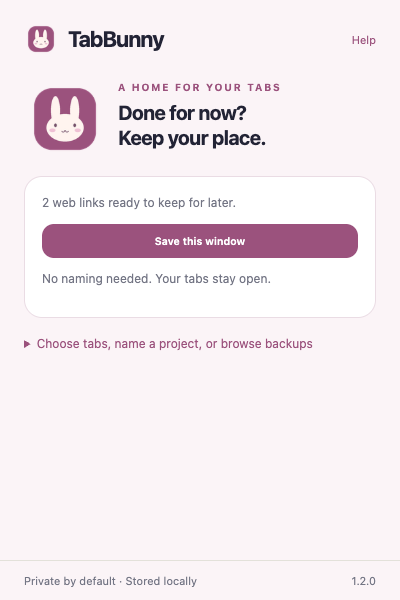
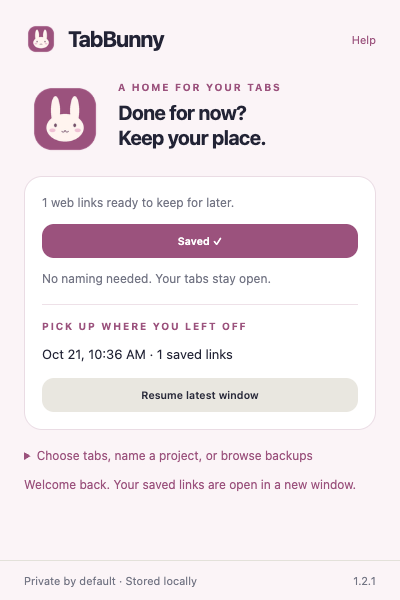
Improve store discovery and add optional honest feedback

diff --git a/extension/popup.js b/extension/popup.js
@@ -1,3 +1,5 @@
+import {initReview} from './review.js';
+const recordReviewUse=initReview('https://chromewebstore.google.com/detail/gmggibbkhagclmcdlcgimijalmedhmhj/reviews');
 import {$,status,node,download,formatDate,confirmDelete} from './shared.js';
 import {uniqueTabs,parseBackup,safeWebUrl,addSnapshot} from './model.js';
 let collections=[],live=[],selected=new Set();
@@ -6,7 +8,7 @@ async function loadLive(){live=(await chrome.tabs.query({currentWindow:true})).f
 function mode(saved){$('#live-view').hidden=saved;$('#saved-view').hidden=!saved;$('#view-live').classList.toggle('selected',!saved);$('#view-saved').classList.toggle('selected',saved);status('');}
 function renderLive(){const q=$('#live-search').value.toLowerCase();const list=live.filter(t=>(t.title+' '+t.url).toLowerCase().includes(q));const box=$('#live-tabs');box.replaceChildren();if(!list.length)box.append(node('div',live.length?'No matching tabs.':'Open a web page to start your first burrow.','empty'));for(const tab of list){const row=node('div',undefined,'tab-row');const check=node('input');check.type='checkbox';check.checked=selected.has(tab.id);check.setAttribute('aria-label','Select '+tab.title);check.onchange=()=>{check.checked?selected.add(tab.id):selected.delete(tab.id);updateCount();};const info=node('button',undefined,'tab-info');info.append(node('strong',tab.title||tab.url),node('span',new URL(tab.url).hostname,'muted'));info.onclick=async()=>{try{await chrome.tabs.update(tab.id,{active:true});await chrome.windows.update(tab.windowId,{focused:true});}catch{status('This tab has closed. Refresh the popup.');}};row.append(check,info);box.append(row);}updateCount();}
 function updateCount(){$('#selected-count').textContent=`${selected.size} selected`;$('#save').disabled=!selected.size;}
-function renderSaved(){const box=$('#collections');box.replaceChildren();const q=$('#search').value.toLowerCase();const list=collections.filter(c=>[c.name,...c.tabs.map(t=>t.title+' '+t.url)].join(' ').toLowerCase().includes(q));if(!list.length)box.append(node('div',collections.length?'No matching burrows.':'Your bunny is keeping a spot warm. Save some tabs to start a burrow.','empty'));for(const c of list){const card=node('article',undefined,'card');const heading=node('div',undefined,'note-title');heading.append(node('h3',c.name),node('span',`${c.tabs.length} tabs`,'count'));card.append(heading,node('p',`Saved ${formatDate(c.createdAt)}`,'muted'));const details=node('details');details.append(node('summary','See saved links'));for(const tab of c.tabs){const a=node('a',tab.title||tab.url,'saved-link');a.href=tab.url;a.target='_blank';a.rel='noopener noreferrer';details.append(a);}card.append(details);const actions=node('div',undefined,'actions');const restore=node('button','Open burrow','primary small');restore.onclick=async()=>{restore.disabled=true;try{const win=await chrome.windows.create({url:c.tabs.map(t=>t.url),focused:true});const tabs=await chrome.tabs.query({windowId:win.id});for(let i=0;i<c.tabs.length;i++)if(c.tabs[i].pinned&&tabs[i])await chrome.tabs.update(tabs[i].id,{pinned:true});status('Your burrow opened in a new window.');}catch{status('Could not open this burrow. Try again.');}finally{restore.disabled=false;}};const rename=node('button','Rename','quiet small');rename.onclick=async()=>{const name=prompt('Burrow name',c.name)?.trim();if(!name)return;try{const latest=(await chrome.storage.local.get('collections')).collections||[];await chrome.storage.local.set({collections:latest.map(x=>x.id===c.id?{...x,name:name.slice(0,80),quick:false}:x)});await loadSaved();}catch{status('Could not rename.');}};const del=node('button','Delete','quiet small');del.onclick=async()=>{if(!confirmDelete(`Delete "${c.name}"?`))return;try{const latest=(await chrome.storage.local.get('collections')).collections||[];await chrome.storage.local.set({collections:latest.filter(x=>x.id!==c.id)});await loadSaved();status('Burrow deleted.');}catch{status('Could not delete.');}};actions.append(restore,rename,del);card.append(actions);box.append(card);}}
+function renderSaved(){const box=$('#collections');box.replaceChildren();const q=$('#search').value.toLowerCase();const list=collections.filter(c=>[c.name,...c.tabs.map(t=>t.title+' '+t.url)].join(' ').toLowerCase().includes(q));if(!list.length)box.append(node('div',collections.length?'No matching burrows.':'Your bunny is keeping a spot warm. Save some tabs to start a burrow.','empty'));for(const c of list){const card=node('article',undefined,'card');const heading=node('div',undefined,'note-title');heading.append(node('h3',c.name),node('span',`${c.tabs.length} tabs`,'count'));card.append(heading,node('p',`Saved ${formatDate(c.createdAt)}`,'muted'));const details=node('details');details.append(node('summary','See saved links'));for(const tab of c.tabs){const a=node('a',tab.title||tab.url,'saved-link');a.href=tab.url;a.target='_blank';a.rel='noopener noreferrer';details.append(a);}card.append(details);const actions=node('div',undefined,'actions');const restore=node('button','Open burrow','primary small');restore.onclick=async()=>{restore.disabled=true;try{const win=await chrome.windows.create({url:c.tabs.map(t=>t.url),focused:true});const tabs=await chrome.tabs.query({windowId:win.id});for(let i=0;i<c.tabs.length;i++)if(c.tabs[i].pinned&&tabs[i])await chrome.tabs.update(tabs[i].id,{pinned:true});status('Your burrow opened in a new window.');void recordReviewUse();}catch{status('Could not open this burrow. Try again.');}finally{restore.disabled=false;}};const rename=node('button','Rename','quiet small');rename.onclick=async()=>{const name=prompt('Burrow name',c.name)?.trim();if(!name)return;try{const latest=(await chrome.storage.local.get('collections')).collections||[];await chrome.storage.local.set({collections:latest.map(x=>x.id===c.id?{...x,name:name.slice(0,80),quick:false}:x)});await loadSaved();}catch{status('Could not rename.');}};const del=node('button','Delete','quiet small');del.onclick=async()=>{if(!confirmDelete(`Delete "${c.name}"?`))return;try{const latest=(await chrome.storage.local.get('collections')).collections||[];await chrome.storage.local.set({collections:latest.filter(x=>x.id!==c.id)});await loadSaved();status('Burrow deleted.');}catch{status('Could not delete.');}};actions.append(restore,rename,del);card.append(actions);box.append(card);}}
 $('#view-live').onclick=()=>mode(false);$('#view-saved').onclick=()=>mode(true);$('#live-search').oninput=renderLive;$('#search').oninput=renderSaved;
 $('#select-all').onclick=()=>{const q=$('#live-search').value.toLowerCase();const visible=live.filter(t=>(t.title+' '+t.url).toLowerCase().includes(q));const all=visible.every(t=>selected.has(t.id));for(const t of visible)all?selected.delete(t.id):selected.add(t.id);renderLive();};
 $('#save').onclick=async()=>{const button=$('#save');button.disabled=true;try{const current=await chrome.tabs.query({currentWindow:true});const chosen=current.filter(t=>selected.has(t.id));const tabs=uniqueTabs(chosen);if(!tabs.length){status('Selected tabs have closed. Reopen the popup.');return;}if(tabs.length>300){status('Select 300 or fewer web tabs.');return;}const latest=(await chrome.storage.local.get('collections')).collections||[];if(latest.length>=100){status('You have 100 burrows. Export and remove an older one first.');return;}const name=$('#name').value.trim()||`Burrow ${new Date().toLocaleDateString()}`;const shouldClose=$('#close-after').checked;if(shouldClose&&!confirm(`Save ${tabs.length} unique links and close ${chosen.length} selected tabs? Unsaved form edits in those tabs will be lost.`))return;await chrome.storage.local.set({collections:[{id:crypto.randomUUID(),name,createdAt:Date.now(),tabs},...latest]});if(shouldClose){try{await chrome.tabs.remove(chosen.map(t=>t.id));}catch{status('Saved safely, but some tabs could not be closed.');}}$('#name').value='';await loadSaved();mode(true);status(`Tucked away ${tabs.length} unique web tabs.`);}catch{status('Could not save. Export and remove older burrows if storage is full.');}finally{button.disabled=false;}};
@@ -14,6 +16,6 @@ $('#export').onclick=()=>download('tabbunny-backup.json',JSON.stringify({schema:
 chrome.storage.onChanged.addListener((_,area)=>{if(area==='local')loadSaved().catch(()=>status('Could not read burrows.'));});Promise.all([loadSaved(),loadLive()]).catch(()=>status('Could not read tabs or saved burrows.'));
 
 function renderRecent(){const c=collections[0];$('#recent-session').hidden=!c;if(c)$('#recent-description').textContent=`${c.name} · ${c.tabs.length} saved links`;}
-async function restoreLatest(){const c=collections[0];if(!c)return;$('#resume').disabled=true;try{const win=await chrome.windows.create({url:c.tabs.map(t=>t.url),focused:true});const tabs=await chrome.tabs.query({windowId:win.id});for(let i=0;i<c.tabs.length;i++)if(c.tabs[i].pinned&&tabs[i])await chrome.tabs.update(tabs[i].id,{pinned:true});status('Welcome back. Your saved links are open in a new window.');}catch{status('Could not restore this window. Your saved links are still safe.');}finally{$('#resume').disabled=false;}}
+async function restoreLatest(){const c=collections[0];if(!c)return;$('#resume').disabled=true;try{const win=await chrome.windows.create({url:c.tabs.map(t=>t.url),focused:true});const tabs=await chrome.tabs.query({windowId:win.id});for(let i=0;i<c.tabs.length;i++)if(c.tabs[i].pinned&&tabs[i])await chrome.tabs.update(tabs[i].id,{pinned:true});status('Welcome back. Your saved links are open in a new window.');void recordReviewUse();}catch{status('Could not restore this window. Your saved links are still safe.');}finally{$('#resume').disabled=false;}}
 $('#quick-save').onclick=async()=>{const button=$('#quick-save');button.disabled=true;try{const tabs=uniqueTabs(await chrome.tabs.query({currentWindow:true}));const latest=(await chrome.storage.local.get('collections')).collections||[];const result=addSnapshot(latest,tabs);await chrome.storage.local.set({collections:result.collections});await loadSaved();status(result.reused?'Already tucked away. Refreshed the latest save.':`Tucked away ${tabs.length} links. Come back whenever you need them.`);button.textContent='Saved ✓';setTimeout(()=>{button.textContent='Save this window';},1800);}catch(error){status(error.message||'Could not save. Your current tabs stay open.');}finally{button.disabled=false;}};
 $('#resume').onclick=restoreLatest;

diff --git a/extension/popup.html b/extension/popup.html
@@ -1,1 +1,1 @@
-<!doctype html><html lang="en"><head><meta charset="utf-8"><meta name="viewport" content="width=device-width,initial-scale=1"><title>TabBunny</title><link rel="stylesheet" href="style.css"></head><body><header><div><img src="icons/icon48.png" alt=""><h1>TabBunny</h1></div><a class="brand-link" href="privacy.html" target="_blank">Help</a></header><main><div class="hero"><img src="icons/icon128.png" alt="A small bunny guarding your tabs"><div><div class="eyebrow">A HOME FOR YOUR TABS</div><h2>Done for now?<br>Keep your place.</h2></div></div><section class="daily-card"><p class="muted" id="window-summary">Reading your web tabs…</p><button id="quick-save" class="primary full" disabled>Save this window</button><p class="muted">No naming needed. Your tabs stay open.</p><div id="recent-session" hidden><span class="eyebrow">PICK UP WHERE YOU LEFT OFF</span><p id="recent-description"></p><button id="resume" class="full">Resume latest window</button></div></section><details id="organizer"><summary>Choose tabs, name a project, or browse backups</summary><div class="tabs"><button id="view-live" class="selected">Open tabs</button><button id="view-saved">Saved burrows</button></div><section id="live-view"><label for="live-search">Find an open tab</label><input id="live-search" type="search" placeholder="Search titles or domains"><div class="row selection-bar"><button id="select-all" class="quiet small">Select visible</button><span id="selected-count" class="muted"></span></div><div id="live-tabs" class="live-tabs"></div><label for="name">Burrow name</label><input id="name" maxlength="80" placeholder="Project research, weekend reads…"><label class="check"><input id="close-after" type="checkbox">Close selected tabs after saving</label><button id="save" class="primary full">Save selected tabs</button></section><section id="saved-view" hidden><label for="search">Search saved burrows</label><input id="search" type="search" placeholder="Search burrows and saved links"><div id="collections" class="cards"></div><div class="row" style="margin-top:14px"><button id="export" class="small">Export backup</button><button id="import" class="small">Import backup</button></div><input type="file" id="file" accept=".json" hidden></section></details><p id="status" class="status" role="status" aria-live="polite"></p></main><footer><span>Private by default · Stored locally</span><span>1.2.0</span></footer><script type="module" src="popup.js"></script></body></html>
+<!doctype html><html lang="en"><head><meta charset="utf-8"><meta name="viewport" content="width=device-width,initial-scale=1"><title>TabBunny</title><link rel="stylesheet" href="style.css"></head><body><header><div><img src="icons/icon48.png" alt=""><h1>TabBunny</h1></div><a class="brand-link" href="privacy.html" target="_blank">Help</a></header><main><div class="hero"><img src="icons/icon128.png" alt="A small bunny guarding your tabs"><div><div class="eyebrow">A HOME FOR YOUR TABS</div><h2>Done for now?<br>Keep your place.</h2></div></div><section class="daily-card"><p class="muted" id="window-summary">Reading your web tabs…</p><button id="quick-save" class="primary full" disabled>Save this window</button><p class="muted">No naming needed. Your tabs stay open.</p><div id="recent-session" hidden><span class="eyebrow">PICK UP WHERE YOU LEFT OFF</span><p id="recent-description"></p><button id="resume" class="full">Resume latest window</button></div></section><details id="organizer"><summary>Choose tabs, name a project, or browse backups</summary><div class="tabs"><button id="view-live" class="selected">Open tabs</button><button id="view-saved">Saved burrows</button></div><section id="live-view"><label for="live-search">Find an open tab</label><input id="live-search" type="search" placeholder="Search titles or domains"><div class="row selection-bar"><button id="select-all" class="quiet small">Select visible</button><span id="selected-count" class="muted"></span></div><div id="live-tabs" class="live-tabs"></div><label for="name">Burrow name</label><input id="name" maxlength="80" placeholder="Project research, weekend reads…"><label class="check"><input id="close-after" type="checkbox">Close selected tabs after saving</label><button id="save" class="primary full">Save selected tabs</button></section><section id="saved-view" hidden><label for="search">Search saved burrows</label><input id="search" type="search" placeholder="Search burrows and saved links"><div id="collections" class="cards"></div><div class="row" style="margin-top:14px"><button id="export" class="small">Export backup</button><button id="import" class="small">Import backup</button></div><input type="file" id="file" accept=".json" hidden></section></details><p id="status" class="status" role="status" aria-live="polite"></p></main><footer><span>Private by default · Stored locally</span><span>1.2.1</span></footer><script type="module" src="popup.js"></script></body></html>

diff --git a/extension/privacy.html b/extension/privacy.html
@@ -1,1 +1,1 @@
-<!doctype html><html lang="en"><meta charset="utf-8"><meta name="viewport" content="width=device-width,initial-scale=1"><title>Privacy and help</title><link rel="stylesheet" href="style.css"><body class="library"><header><h1>Privacy and help</h1></header><main><h2>Stored on your device</h2><p>This extension does not send your data to a developer server. It contains no analytics, advertising, accounts, or remote executable code.</p><p>Saved content uses Chrome local storage. Clearing extension data or uninstalling removes it. Chrome and its Web Store operate under Google's separate policies.</p><h2>How this product accesses data</h2><p>Local collections contain names, page URLs and titles, pinned flags, and creation timestamps.</p><h2>Control your data</h2><p>Use the export and delete controls where provided. Exported files may contain private URLs or notes, so store them somewhere you trust.</p><h2>Support</h2><p>Use the support contact on this extension's Chrome Web Store listing to report a bug. Include the extension version and steps to reproduce. Do not include passwords, private URLs, or sensitive notes.</p><h2>Remove the extension</h2><p>Open chrome://extensions, find this extension, and choose Remove.</p><a href="popup.html">Back to the app</a></main></body></html>
+<!doctype html><html lang="en"><meta charset="utf-8"><meta name="viewport" content="width=device-width,initial-scale=1"><title>Privacy and help</title><link rel="stylesheet" href="style.css"><body class="library"><header><h1>Privacy and help</h1></header><main><h2>Stored on your device</h2><p>This extension does not send your data to a developer server. It contains no analytics, advertising, accounts, or remote executable code.</p><p>Saved content uses Chrome local storage. Clearing extension data or uninstalling removes it. Chrome and its Web Store operate under Google's separate policies.</p><h2>How this product accesses data</h2><p>Local collections contain names, page URLs and titles, pinned flags, and creation timestamps.</p><h2>Control your data</h2><p>Use the export and delete controls where provided. Exported files may contain private URLs or notes, so store them somewhere you trust.</p><h2>Support</h2><p>Use the support contact on this extension's Chrome Web Store listing to report a bug. Include the extension version and steps to reproduce. Do not include passwords, private URLs, or sensitive notes.</p><h2>Remove the extension</h2><p>Open chrome://extensions, find this extension, and choose Remove.</p><a href="popup.html">Back to the app</a><h2>Share feedback</h2><p>Share an honest review of your experience. Reviews are optional and do not unlock features.</p><p><a href="https://chromewebstore.google.com/detail/gmggibbkhagclmcdlcgimijalmedhmhj/reviews" target="_blank" rel="noopener noreferrer">Write a Chrome Web Store review</a></p><p>Local feedback preferences record successful-use counts, activity dates, and whether the one-time review notice was dismissed or opened. No feedback data is sent to the developer.</p></main></body></html>

diff --git a/extension/review.js b/extension/review.js
@@ -1,0 +1,55 @@
+// Feedback preferences stay on this device; no analytics or network requests.
+const KEY = 'reviewPrompt';
+const DAY = 86400000;
+let queue = Promise.resolve();
+export function eligibleReview(state, now = Date.now()) {
+  return Boolean(state && !state.handled && state.count >= 5 &&
+    state.days?.length >= 3 && now - state.firstAt >= 7 * DAY);
+}
+export function initReview(url) {
+  let box;
+  const settle = async () => {
+    try {
+      const data = await chrome.storage.local.get(KEY);
+      await chrome.storage.local.set({[KEY]: {...data[KEY], handled: true}});
+    } catch { /* Feedback must never interrupt the app. */ }
+    box?.remove();
+  };
+  const refresh = async () => {
+    try {
+      const data = await chrome.storage.local.get(KEY);
+      if (!eligibleReview(data[KEY])) { box?.remove(); box = null; return; }
+      if (box?.isConnected) return;
+      box = document.createElement('aside');
+      box.className = 'review-card';
+      box.setAttribute('aria-label', 'Optional feedback');
+      const text = document.createElement('p');
+      text.textContent = 'Have a moment? Share an honest review on the Chrome Web Store.';
+      const link = document.createElement('a');
+      link.href = url; link.target = '_blank'; link.rel = 'noopener noreferrer';
+      link.textContent = 'Write a review'; link.addEventListener('click', settle);
+      const dismiss = document.createElement('button');
+      dismiss.type = 'button'; dismiss.className = 'quiet small';
+      dismiss.textContent = 'Dismiss'; dismiss.addEventListener('click', settle);
+      box.append(text, link, dismiss);
+      document.querySelector('main').append(box);
+    } catch { /* Feedback must never interrupt the app. */ }
+  };
+  void refresh();
+  chrome.storage.onChanged.addListener((changes, area) => {
+    if (area === 'local' && changes[KEY]) void refresh();
+  });
+  return recordReviewUse;
+}
+export function recordReviewUse() {
+    queue = queue.then(async () => {
+      const data = await chrome.storage.local.get(KEY);
+      const old = data[KEY] || {firstAt: Date.now(), count: 0, days: []};
+      if (old.handled) return;
+      const day = new Date().toISOString().slice(0, 10);
+      await chrome.storage.local.set({[KEY]: {...old,
+        count: Math.min(100, old.count + 1),
+        days: [...new Set([...(old.days || []), day])].slice(-30)}});
+    }).catch(() => {});
+    return queue;
+}

diff --git a/extension/style.css b/extension/style.css
@@ -8,3 +8,5 @@ body:not(.library){height:600px;display:flex;flex-direction:column}body:not(.lib
 :root{--accent:#9b527d;background:#fbf4f7}.hero{display:flex;align-items:center;gap:12px;margin:0 0 16px}.hero img{width:82px;height:82px}.hero h2{font-size:20px;margin:7px 0}.live-tabs{max-height:165px;overflow-y:auto;background:white;border:1px solid #eadce4;border-radius:12px}.tab-row{display:flex;align-items:center;gap:10px;padding:7px 10px;border-bottom:1px solid #f2edf0}.tab-row:last-child{border:0}.tab-row>input{width:15px;margin:0;flex-shrink:0}.tab-info{padding:0;background:transparent;text-align:left;font-weight:400;min-width:0;flex:1}.tab-info strong{display:block;overflow:hidden;text-overflow:ellipsis;white-space:nowrap;font-size:12px;font-weight:500}.tab-info span{display:block;margin-top:3px;font-size:10px}.selection-bar{margin:4px 0}.selection-bar span{text-align:right}.full{width:100%}details summary{cursor:pointer;font-size:12px;color:var(--accent)}.saved-link{display:block;font-size:12px;margin:8px 0;overflow-wrap:anywhere}#collections{max-height:315px}.check{font-size:11px;line-height:1.4}.primary{background:var(--accent)}
 
 .daily-card{padding:17px;background:#fff;border:1px solid #eadce4;border-radius:18px;margin-bottom:17px}.daily-card>p:first-child{margin-top:0}#recent-session{border-top:1px solid #eee1e8;margin-top:16px;padding-top:15px}#recent-description{font-size:13px;line-height:1.5}#organizer>summary{font-size:12px;line-height:1.5;cursor:pointer;color:var(--accent)}#organizer[open]>.tabs{margin-top:14px}#organizer{margin-bottom:10px}.hero img{transition:transform .2s}.daily-card:has(#quick-save:focus)~.hero img{transform:rotate(-4deg)}
+
+.review-card{margin-top:16px;padding:12px;border:1px solid #ddd;border-radius:12px;background:#fff;font-size:12px;line-height:1.5}.review-card p{margin:0 0 8px}.review-card a{margin-right:14px}.review-card button{font-size:11px}

diff --git a/tests/review.test.js b/tests/review.test.js
@@ -1,0 +1,6 @@
+import {test} from 'node:test';
+import assert from 'node:assert/strict';
+import {eligibleReview} from '../extension/review.js';
+const now=20*86400000;
+const ready={firstAt:0,count:5,days:['one','two','three']};
+test('review notice waits for repeated use across a week and respects dismissal',()=>{assert.equal(eligibleReview(ready,now),true);for(const state of [null,{...ready,count:4},{...ready,days:['one']},{...ready,firstAt:now-86400000},{...ready,handled:true}])assert.equal(eligibleReview(state,now),false);});

diff --git a/store/launch.md b/store/launch.md
@@ -1,0 +1,28 @@
+# TabBunny launch material
+
+## Community post
+
+Title: Save this window. Resume it later.
+
+I built TabBunny, a Chrome extension for a simpler everyday browsing workflow.
+
+TabBunny saves the web tabs in your current Chrome window so you can reopen their links later. Finish today’s research, study, or work and pick it up in a new window when you are ready.
+
+What it does:
+- One click to save your web tabs
+- Reopen saved links in a new window
+- Optional projects and JSON backups
+
+Install: https://chromewebstore.google.com/detail/gmggibbkhagclmcdlcgimijalmedhmhj
+
+I am the developer. I would appreciate feedback on the workflow, confusing steps, or missing essentials. Please share your own experience; there is no reward or required rating.
+
+## Demo caption
+
+Save this window. Resume it later. TabBunny saves the web tabs in your current Chrome window so you can reopen their links later. Finish today’s research, study, or work and pick it up in a new window when you are ready.
+
+Install: https://chromewebstore.google.com/detail/gmggibbkhagclmcdlcgimijalmedhmhj
+
+## Distribution
+
+Share in relevant communities only where their rules permit developer posts. Use the guided demo in `store/demo/`, with its fictional-data and accelerated-timer disclosures where applicable. These posts are prepared drafts; they have not been posted.

diff --git a/store/submission.md b/store/submission.md
@@ -1,9 +1,3 @@
 # Store release status
 
-Checked 2026-10-16. The existing item remains **1.1.0 — Pending review**. Version **1.2.0 has not been uploaded or submitted**.
-
-The publisher dashboard explicitly rejected cancellation of the previous review with: “Cannot cancel because you’ve reached the daily limit.” Upload new package remains disabled while the existing submission is pending. The dashboard did not provide a reset time.
-
-The 1.2.0 implementation, listing, media, reviewer instructions and validated ZIP are available in this repository and its GitHub release. To finish the update after cancellation becomes available: cancel the existing review, upload the 1.2.0 ZIP, replace the listing/media and permission explanations with the prepared files, and submit for review with automatic publication after approval. Verify the stored version and images before reporting completion.
-
-Existing store metadata describes 1.1.0 until replacement succeeds. Prepared assets are not published store content. No duplicate store item was created.
+Updated 2026-10-21. Version 1.2.1 has been prepared and uploaded to the existing item. The earlier 1.2.0 update was superseded. Current submission evidence is recorded in `submission-2026-10-21.json`; public availability depends on Google’s review.

diff --git a/store/asset-notes.md b/store/asset-notes.md
@@ -1,5 +1,5 @@
-# Store assets
+# Store artwork provenance
 
-Promotional artwork uses the extension's original vector and geometric mascot system. Overview images combine promotional typography with an actual isolated-browser UI capture. Capture content uses fictional example domains and local data. No user account information is included.
+Overview and marquee images combine explanatory typography with an actual isolated-browser UI capture using fictional example data. The capture comes from `store/popup-400x600.png`, generated from version 1.2.1 in a disposable browser profile. Promotional tiles use the existing mascot and geometric icon system. No personal account or workstation information is included.
 
-Required assets: RGB PNG overview at 1280×800 and small promotional tile at 440×280. Optional marquee: RGB PNG at 1400×560. Icons use RGBA PNG at 16, 32, 48, and 128 pixels.
+All uploaded artwork is RGB PNG at the requested store dimensions. Guided demo frames and completion acceleration disclosures remain in `store/demo/README.md`.

diff --git a/README.md b/README.md
@@ -21,6 +21,10 @@ Save the web links in your current window with one click. Your bunny keeps them 
 
 Stores up to 100 burrows with 300 web tabs each. HTTP and HTTPS pages only; internal browser pages, local files, and URLs with embedded credentials are skipped. TabBunny keeps current tabs open unless you explicitly choose to close them. Saved links do not preserve form edits, cookies, page scroll positions, or login state. Closing tabs can lose unsaved page input. At 100 collections, new quick saves retire the oldest quick snapshot; named projects are preserved. Renaming a quick snapshot makes it a named project.
 
+## Feedback
+
+The help page links to honest Chrome Web Store reviews. An optional, dismissible notice appears after repeated successful use across at least one week; preferences stay on this device.
+
 ## Development
 
 Load `extension/` unpacked in Chrome Developer mode. Run `npm test` and `npm run package`. There is no runtime dependency or build step.

diff --git a/store/listing.md b/store/listing.md
@@ -1,18 +1,18 @@
 # TabBunny
 
-## Category
+## Store fields
 
-Workflow & Planning
-
-## Language
-
-English
+- Title: TabBunny: Save & Restore Tabs
+- Summary: Save and restore browser tabs in one click. Keep windows for later, organize projects, and back up your links locally.
+- Category: Workflow & Planning
+- Language: English
 
 ## Description
 
-Save tonight. Hop back tomorrow.
+TabBunny saves the web tabs in your current Chrome window so you can reopen their links later. Finish today’s research, study, or work and pick it up in a new window when you are ready.
 
-Save the web links in your current window with one click. Your bunny keeps them ready to reopen later; no project naming or tab selection is required.
+GET STARTED
+Open TabBunny and choose Save this window. Later, choose Resume latest window to reopen the saved links. Naming and tab selection are optional.
 
 FEATURES
 - Save this window with an automatic date label; current tabs stay open.

diff --git a/PRIVACY.md b/PRIVACY.md
@@ -1,6 +1,6 @@
 # TabBunny privacy policy
 
-Effective date: 2026-10-16.
+Effective date: 2026-10-21.
 
 ## Data and access
 
@@ -9,6 +9,10 @@ Local collections contain names, page URLs and titles, pinned flags, and creatio
 `tabs` reads the current window's URLs, titles, and pinned state when you use the app. `storage` saves your burrows on this device. No website content is read.
 
 Processing is local. The developer receives no extension data. No accounts, cloud sync, ads, analytics or remote executable code. Google and Chrome have separate privacy policies.
+
+## Optional feedback
+
+Successful-use counts, activity dates, and a dismissal/opened preference are stored locally for an optional one-time review notice after at least five uses on three days spanning one week. No feedback telemetry is transmitted. The help page always links to the store review page, regardless of usage or satisfaction.
 
 ## Control and retention
 
